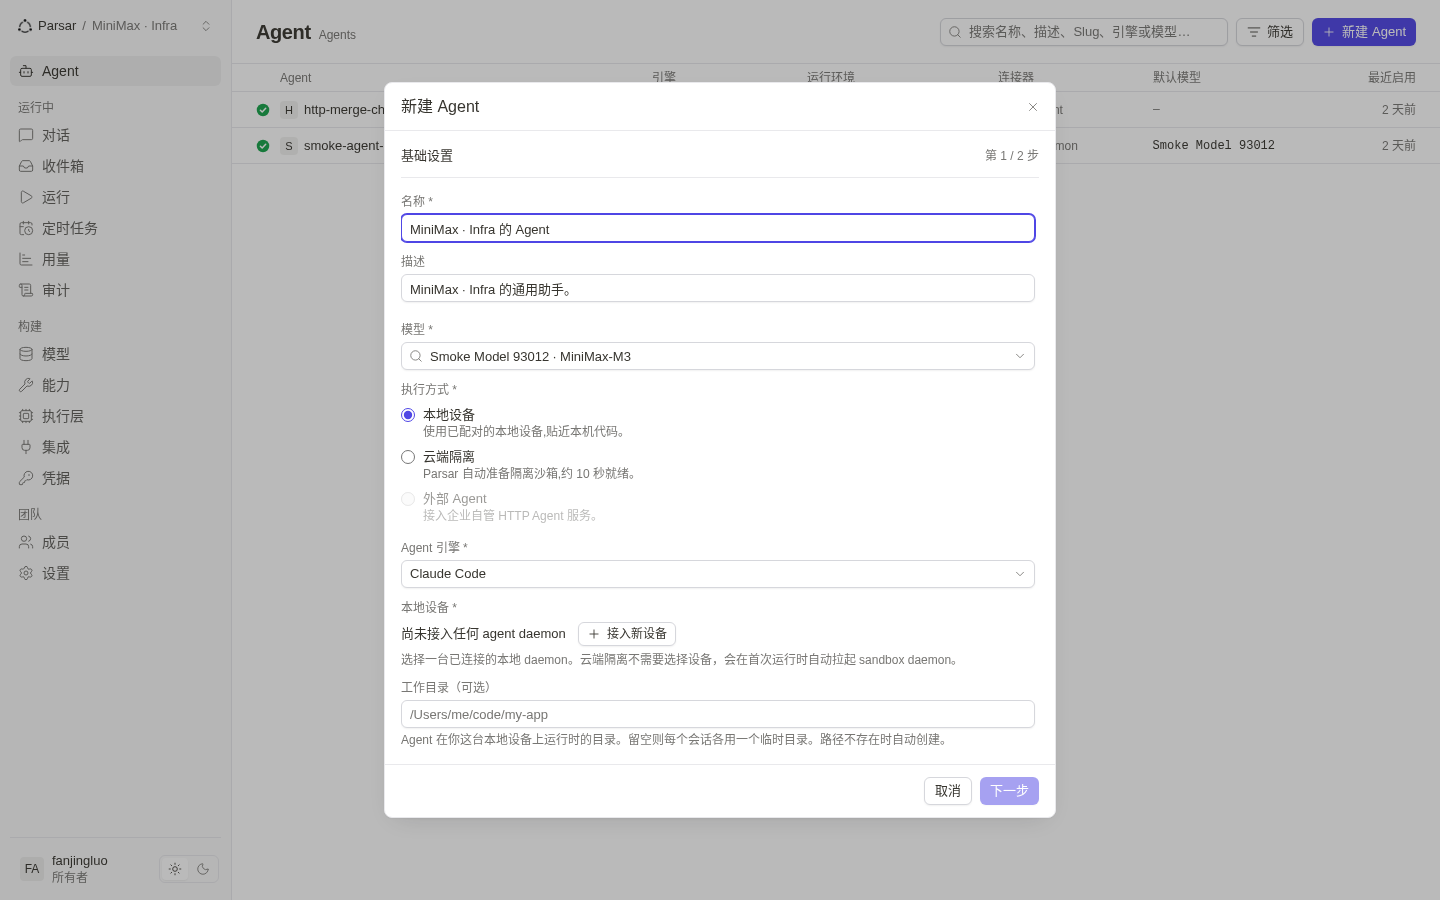
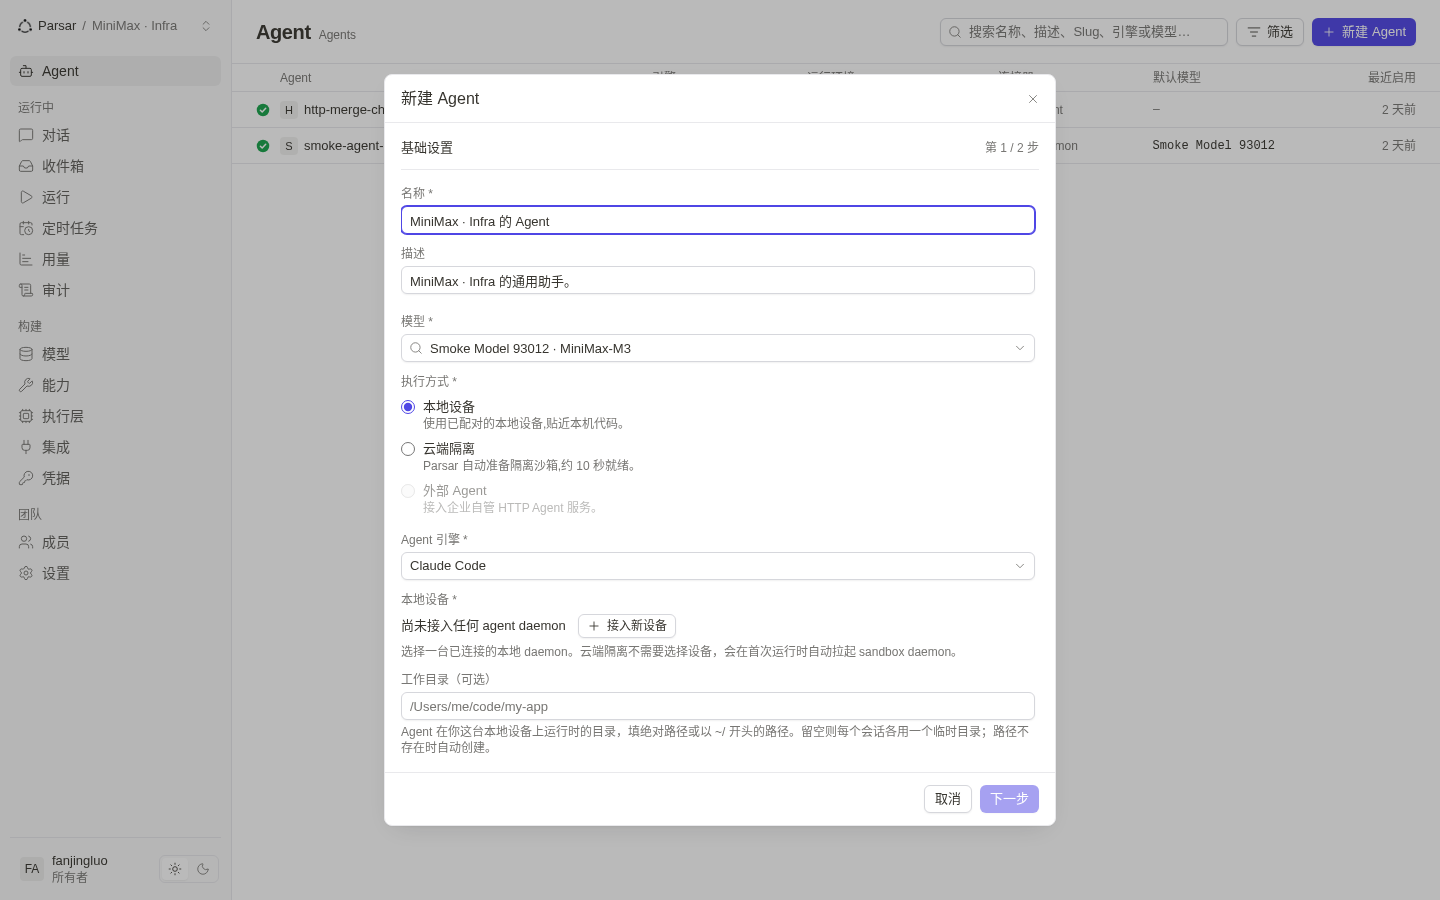
fix(web): a policy is not an object (#297)
* fix(web): a policy is not an object

设置 kept one folder inside itself. 当前运行策略 was four `Property` rows of
hard-coded literals — `/absolute/path, ~/path`, `~/.parsar/`, "Agent 配置",
"能力 / 连接器页面" — and it fails all three tests for an object: not
instanceable (there is one, identical for every workspace, forever, with no id
and no lifecycle), not structured (four unrelated facts), not useful (nothing
on it can be read off or acted on). Its own description admitted what it was:
"暂未接入后端的策略不再放成可编辑控件" — a note to the reader about which
controls do not exist yet.

Two of the four rows were worse than documentation: "Agent 配置" and
"能力 / 连接器页面" are the names of destinations, rendered as unlinked strings,
in a console whose sidebar lists both.

Only one of the four facts is something a person needs, and it is a rule about
a field: a working directory must be absolute or start with `~/`. It is on that
field's hint now, in both the local and sandbox variants, where it is needed at
the moment of typing rather than three pages away. The rest goes, along with
the whole `settings.runtime` copy block the section and its removed controls
left behind — 22 keys, both locales still identical at 2140.

设置 is now what its charter says: the workspace's name, its language, its auth
providers.

* fix(web): the form was stricter than the system it drives

The review caught what moving the rule exposed: the working-directory hint now
[…]

diff --git a/apps/web/src/pages/admin/CreateAgentDialog.tsx b/apps/web/src/pages/admin/CreateAgentDialog.tsx
@@ -193,6 +193,17 @@ function runtimeFromAgent(a?: Agent | null): RuntimeChoice {
   return a?.runtime ?? "sandbox"
 }
 
+/**
+ * What the daemon and the server both accept: an absolute path, or one under
+ * the operating user's home. The form used to demand a leading `/`, which was
+ * stricter than either — `codex/options.go` and `claudecode/session.go` expand
+ * `~/` themselves, and the server's own check reads "must be absolute or start
+ * with ~".
+ */
+function isUsableWorkDir(path: string): boolean {
+  return path.startsWith("/") || path.startsWith("~/")
+}
+
 function deviceIDFromAgent(a?: Agent | null): string {
   return String(agentConfig(a).device_id ?? "")
 }
@@ -790,7 +801,7 @@ export function CreateAgentDialog({
     if (!name.trim() || !hasConnector) return
     if (connector === "agent_daemon" && executionMode === "local_device" && !deviceID) return
     const trimmedWorkDir = workDir.trim()
-    if (connector === "agent_daemon" && trimmedWorkDir !== "" && !trimmedWorkDir.startsWith("/")) {
+    if (connector === "agent_daemon" && trimmedWorkDir !== "" && !isUsableWorkDir(trimmedWorkDir)) {
       // The daemon also enforces absolute paths, but failing fast here gives
       // the user a clearer error tied to the input instead of a stream error.
       return
@@ -969,7 +980,7 @@ export function CreateAgentDialog({
   }
 
   const workDirTrimmed = workDir.trim()
-  const workDirValid = connector !== "agent_daemon" || workDirTrimmed === "" || workDirTrimmed.startsWith("/")
+  const workDirValid = connector !== "agent_daemon" || workDirTrimmed === "" || isUsableWorkDir(workDirTrimmed)
   const canSubmit =
     !pending &&
     name.trim() !== "" &&
@@ -1195,7 +1206,7 @@ export function CreateAgentDialog({
                 <Field
                   label={t("agents.form.fields.workDir")}
                   hint={t(executionMode === "sandbox" ? "agents.form.workDir.hintSandbox" : "agents.form.workDir.hintLocal")}
-                  error={submitAttempted && workDir.trim() !== "" && !workDir.trim().startsWith("/") ? t("agents.form.errors.workDirAbsolute") : undefined}
+                  error={submitAttempted && workDir.trim() !== "" && !isUsableWorkDir(workDir.trim()) ? t("agents.form.errors.workDirAbsolute") : undefined}
                 >
                   <Input
                     value={workDir}

diff --git a/apps/web/src/pages/admin/SettingsPage.tsx b/apps/web/src/pages/admin/SettingsPage.tsx
@@ -103,25 +103,6 @@ export function SettingsPage() {
                 </Ledger>
               )}
             </PageSection>
-
-            <PageSection
-              title={t("settings.runtime.policy.title")}
-            >
-              <PropertyList>
-                <Property label={t("settings.runtime.policy.workdirs.title")} mono>
-                  /absolute/path, ~/path
-                </Property>
-                <Property label={t("settings.runtime.policy.runtimeState.title")} mono>
-                  ~/.parsar/
-                </Property>
-                <Property label={t("settings.runtime.policy.agentRuntime.title")}>
-                  {t("settings.runtime.policy.agentRuntime.value")}
-                </Property>
-                <Property label={t("settings.runtime.policy.capabilities.title")}>
-                  {t("settings.runtime.policy.capabilities.value")}
-                </Property>
-              </PropertyList>
-            </PageSection>
           </div>
         </div>
       </div>

diff --git a/apps/web/src/components/admin/PairDaemonDialog.tsx b/apps/web/src/components/admin/PairDaemonDialog.tsx
@@ -145,6 +145,11 @@ export function PairDaemonDialog({ open, onClose, workspaceID, onPaired }: PairD
                   })}
                 </li>
                 <li>
+                  {t("runtime.agentDaemon.pair.safetyState", {
+                    defaultValue: "Config, logs, state and cache are written under ~/.parsar/ — never into the repository the agent is working in.",
+                  })}
+                </li>
+                <li>
                   {t("runtime.agentDaemon.pair.safetyOnce", {
                     defaultValue: "The token is shown once — it cannot be recovered after this dialog closes.",
                   })}

diff --git a/apps/web/DESIGN.md b/apps/web/DESIGN.md
@@ -518,7 +518,9 @@ Spacing rhythm: 2 / 4 / 8 / 10 / 12 / 16 / 24. Tight inside a group, generous be
 
 **The Action Slot Is For Actions Rule.** The topbar's right end holds what you can *do* on this page, and nothing else. A segmented control that navigates between pages is not an action, and putting one there — as 设置 did, one control away from 添加凭据 — asks the reader to tell navigation from action by reading rather than by position. Navigation is the sidebar's job.
 
-**A Place Is Not An Object Rule.** 设置 named a place and hid three real objects inside it: a credential ledger, a usage report and an audit log, none of which is a setting, each reachable only by first going somewhere it does not belong. When a "section" turns out to hold things of different shapes, those things are pages, and the section was a folder someone put them in. Settings keeps what is genuinely the workspace's own — its name, its language, its auth providers, its runtime policy — and the ledgers stand with the other ledgers.
+**A Place Is Not An Object Rule.** 设置 named a place and hid three real objects inside it: a credential ledger, a usage report and an audit log, none of which is a setting, each reachable only by first going somewhere it does not belong. When a "section" turns out to hold things of different shapes, those things are pages, and the section was a folder someone put them in. Settings keeps what is genuinely the workspace's own — its name, its language, its auth providers — and the ledgers stand with the other ledgers.
+
+The same test applies inside a page. **A thing is an object when it is instanceable, structured and useful**: you can have more than one, it has attributes of its own, and the reader cares about it in its own right. 当前运行策略 was four property rows and passed none of them — one, identical for every workspace, forever; four unrelated facts; and nothing on it to act on. Two of its rows named destinations the sidebar already lists, rendered as unlinked strings. A rule about a field belongs on that field, a fact about the daemon belongs where you install one, and what is left after that is a note about the product's construction, which is not a section.
 
 **The Passing Message Rule.** The result of pressing a button is a passing thing: it floats in at the top, holds long enough to be read, and leaves. It never opens a row in the layout — a strip under the header pushes the whole list down, stays after it has been read, and makes a confirmation look like a page state. A *standing condition* is the opposite and keeps its place in the page: "this workspace has no agent" is why the button is disabled, not news about something that just happened.
 
